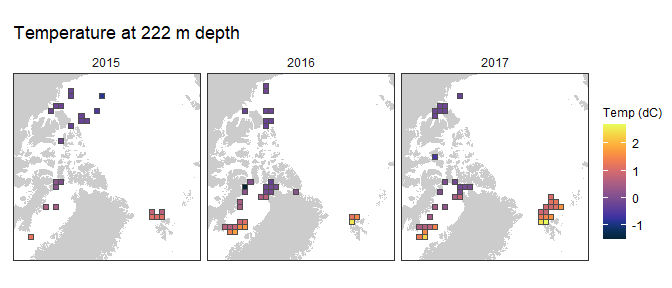
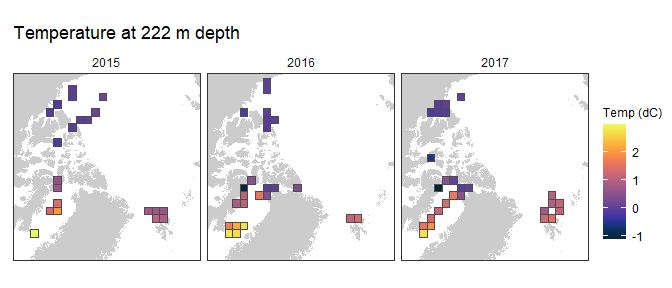
Add Spearman correlation plots.

diff --git a/PanArctic_DSL_statistics.md b/PanArctic_DSL_statistics.md
@@ -1,7 +1,7 @@
 PanArctic DSL - Statistics
 ================
 [Pierre Priou](mailto:pierre.priou@mi.mun.ca)
-2022/04/20 at 16:01
+2022/04/22 at 14:22
 
 # Package loading
 
@@ -16,6 +16,12 @@ library(ggfortify)    # Plotting glm
 library(RColorBrewer) # Diverging colour palettes
 library(cmocean)      # Oceanographic colour palettes
 library(moments)      # Overlay distributions
+library(ggcorrplot)   # Correlation plots
+```
+
+    ## Warning: package 'ggcorrplot' was built under R version 4.1.3
+
+``` r
 # Custom figure theme
 theme_set(theme_bw())
 theme_update(axis.text = element_text(size = 9),
@@ -39,7 +45,7 @@ WGS84 or the EASE-Grid 2.0 North.
 
 ``` r
 # Map projections
-cell_res <- 100 # Cell resolution in km
+cell_res <- 150 # Cell resolution in km
 arctic_laea <- raster(extent(-2700, 2700, -2700, 2700), crs = "EPSG:6931") # Seaice projection
 projection(arctic_laea) <- gsub("units=m", "units=km", projection(arctic_laea)) # Convert proj unit from m to km
 res(arctic_laea) <- c(cell_res, cell_res) # Define the 100 km cell resolution
@@ -64,7 +70,8 @@ coast_10m_laea <- readOGR("data/bathy/ne_10m_land.shp", verbose = F) %>% # Coast
 # Gridded acoustic, CTD, and sea ice data
 load("data/acoustics/SA_grids.RData") # Acoustic data
 # load("data/CTD/CTD_grids.RData") # CTD data
-load("data/remote_sensing/physics_grids.RData") # Remote sensing sea ice data
+load("data/remote_sensing/physics_grids.RData") # Modelled physics data 
+load("data/remote_sensing/seaice_grids.RData") # Remote sensing sea ice data
 
 rm(list = ls(pattern = "latlon")) # Remove EPSG:4326 files
 ```
@@ -82,7 +89,7 @@ phy_laea <- phy_grid_laea %>% # Tidy remote sensing dataset for joining
   dplyr::select(-lat, -lon)
 
 stat_laea <- left_join(SA_laea, phy_laea, by = c("year", "area", "xc", "yc", "cell_res")) %>% # Join acoustic and seaice
-  filter(depth == 222) %>% # Select data at 222 m depth
+  filter(depth == 380) %>% # Select data at 222 m depth
   mutate(SA_int = 10 * log10(NASC_int))
 ```
 
@@ -151,7 +158,7 @@ stat_laea %>% # Ice concentration
   geom_tile(aes(fill = velocity), color = "grey30") +
   scale_fill_cmocean("velo (m/s)", name = "speed", na.value = "red") +
   facet_wrap(~ year, ncol = 3) +
-  ggtitle("Current velocity at 222 m depth") +
+  ggtitle("Current velocity at 380 m depth") +
   coord_fixed(xlim = c(-2600, 1100), ylim = c(-1800, 1900), expand = F) + 
   theme(axis.text = element_blank(), axis.ticks = element_blank(), axis.title = element_blank())
 ```
@@ -202,43 +209,21 @@ stat_laea %>% # Ice concentration
 
 ## Data exploration
 
+First I check the general correlation for the entire data set and then I
+check whether there are correlations within each cell.
+
 ``` r
-plot_grid(stat_laea %>%
-            ggplot(aes(x = cons_temp, y = NASC_anomaly)) +
-            geom_point(alpha = 0.5) +
-            # stat_smooth(method = "lm", se = F) +
-            scale_x_continuous("Temperature (°C)") +
-            scale_y_continuous("Sa anomaly"),
-          stat_laea %>%
-            ggplot(aes(x = abs_sal, y = NASC_anomaly)) +
-            geom_point(alpha = 0.5) +
-            # stat_smooth(method = "lm", se = F) +
-            scale_x_continuous("Salinity (g/kg)") +
-            scale_y_continuous("Sa anomaly"),
-          stat_laea %>%
-            ggplot(aes(x = openwater_duration, y = NASC_anomaly)) +
-            geom_point(alpha = 0.5) +
-            # stat_smooth(method = "lm", se = F) +
-            scale_x_continuous("Open water (days)") +
-            scale_y_continuous("Sa anomaly"),
-          stat_laea %>%
-            ggplot(aes(x = mean_ice_conc, y = NASC_anomaly)) +
-            geom_point(alpha = 0.5) +
-            # stat_smooth(method = "lm", se = F) +
-            scale_x_continuous("Mean ice conc (%)") +
-            scale_y_continuous("Sa anomaly"),
-          ncol = 2, align = "hv", axis = "tblr")
+corr <- stat_laea %>% # Compute Spearman correlation matrix
+  dplyr::select(NASC_int, SA_int, NASC_anomaly, thetao, so, velocity, mlotst, siconc, sithick) %>%
+  cor(., method = "spearman") %>%
+  round(., 2)
+corr_pvalues <- stat_laea %>% # Compute Spearman correlation matrix p-values
+  dplyr::select(NASC_int, SA_int, NASC_anomaly, thetao, so, velocity, mlotst, siconc, sithick) %>%
+  cor_pmat(., method = "spearman") 
 ```
 
 ``` r
-stat_laea %>%
-  ggdensity(x = "NASC_anomaly", fill = "lightgray") +
-  stat_overlay_normal_density(color = "red", linetype = "dashed")
-stat_laea %>%
-  ggdensity(x = "NASC_int", fill = "lightgray") +
-  stat_overlay_normal_density(color = "red", linetype = "dashed")
-stat_laea %>%
-  mutate(SA_int = 10 * log10(NASC_int)) %>%
-  ggdensity(x = "SA_int", fill = "lightgray") +
-  stat_overlay_normal_density(color = "red", linetype = "dashed")
+ggcorrplot(corr, type = "lower", p.mat = corr_pvalues)
 ```
+
+![](PanArctic_DSL_statistics_files/figure-gfm/corr-plot-1.png)<!-- -->
